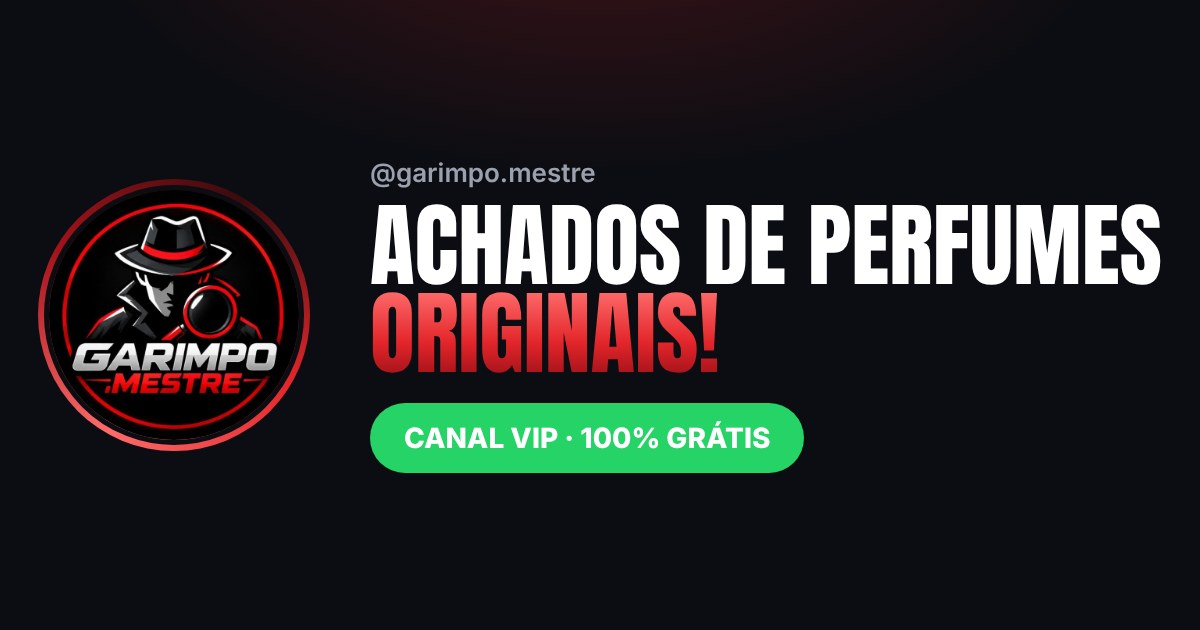
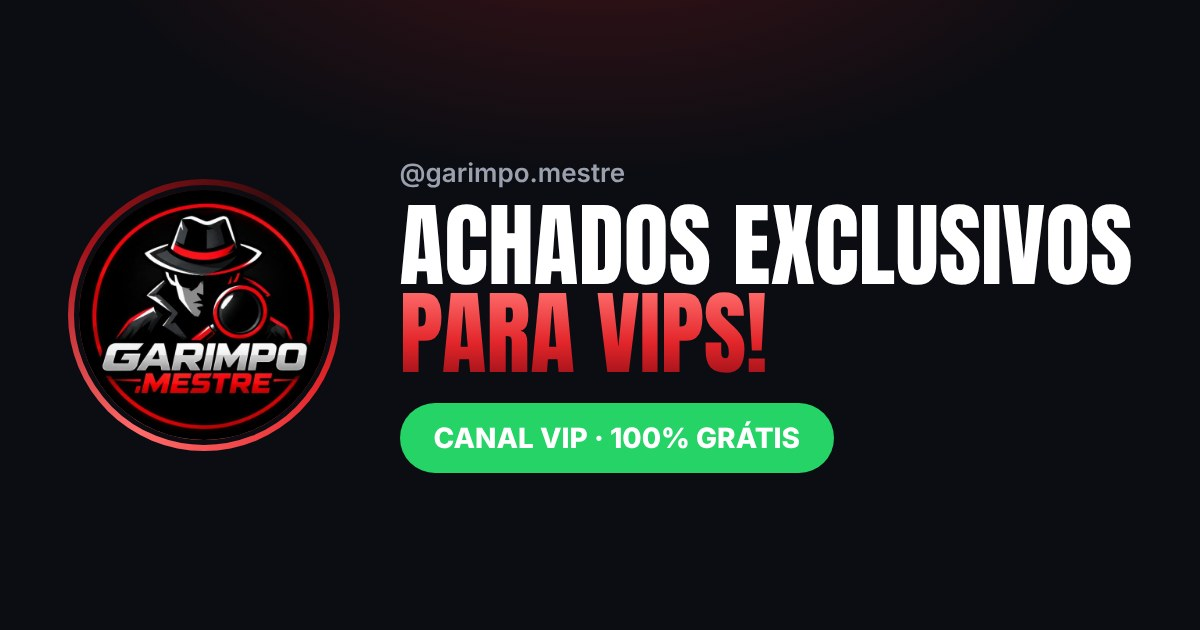
Título: achados exclusivos para VIPs
Claude-Session: https://claude.ai/code/session_0133dTWsvkxT6RaoTsmohFaC

Changed region(s): [[0.0308, 0.2413, 0.9867, 0.7238], [0.3083, 0.6333, 0.7092, 0.754]]

diff --git a/index.html b/index.html
@@ -267,7 +267,7 @@
       @garimpo.mestre
     </a>
 
-    <h1>Achados de perfumes<span class="gold">Originais!</span></h1>
+    <h1>Achados exclusivos<span class="gold">para VIPs!</span></h1>
 
     <div class="chips">
       <span class="chip chip--gold">
